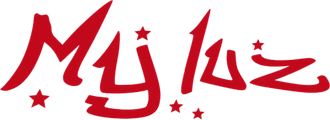
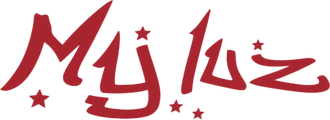
Rojo más apagado (#a8252f) en toda la tienda y en la palabra de la marca

diff --git a/public/styles.css b/public/styles.css
@@ -196,8 +196,8 @@ a.btn-g{text-decoration:none;color:var(--ink)}
 .fila.contado{color:var(--ok)}
 .precio.grande+.cuotas{font-size:15px}.precio.grande~.contado{font-size:16px}.precio.grande~.contado b{font-size:20px}
 .logo-img{width:44px;height:44px;border-radius:50%;background:#fff;flex:none}
-/* Marca del negocio (2026-11-26): rojo del logo (#c2081b). La palabra "Myluz" es la del logo recortada (img/marca*.webp). */
-:root{--acc:#c2081b;--acc-ink:#a30616;--acc-soft:#fde7e9;--rojo-osc:#7d0511}
+/* Marca del negocio (2026-11-26): rojo del logo apagado (#a8252f). La palabra "Myluz" es la del logo recortada (img/marca*.webp). */
+:root{--acc:#a8252f;--acc-ink:#8c1f28;--acc-soft:#f7e6e7;--rojo-osc:#5c1a1f}
 .marca-img{height:44px;width:auto;display:block}
 .aviso{background:var(--rojo-osc);color:#fff}
 .btn-carro,.add,.cta,.mini{background:var(--acc);color:#fff}
@@ -206,7 +206,7 @@ a.btn-g{text-decoration:none;color:var(--ink)}
 .badge{background:#fff;color:var(--acc);box-shadow:0 0 0 2px var(--acc)}
 .btn-p{background:var(--acc);color:#fff}
 .hero{background:var(--acc-ink)}
-.hero::before{background:radial-gradient(circle,rgba(255,120,130,.45),rgba(255,120,130,0) 65%)}
+.hero::before{background:radial-gradient(circle,rgba(255,170,170,.25),rgba(255,170,170,0) 65%)}
 .hero .eyebrow{color:#ffd3d8}
 .hero .btn-p{background:#fff;color:var(--acc-ink)}
 .pie{background:var(--rojo-osc);color:#f6d6da}
